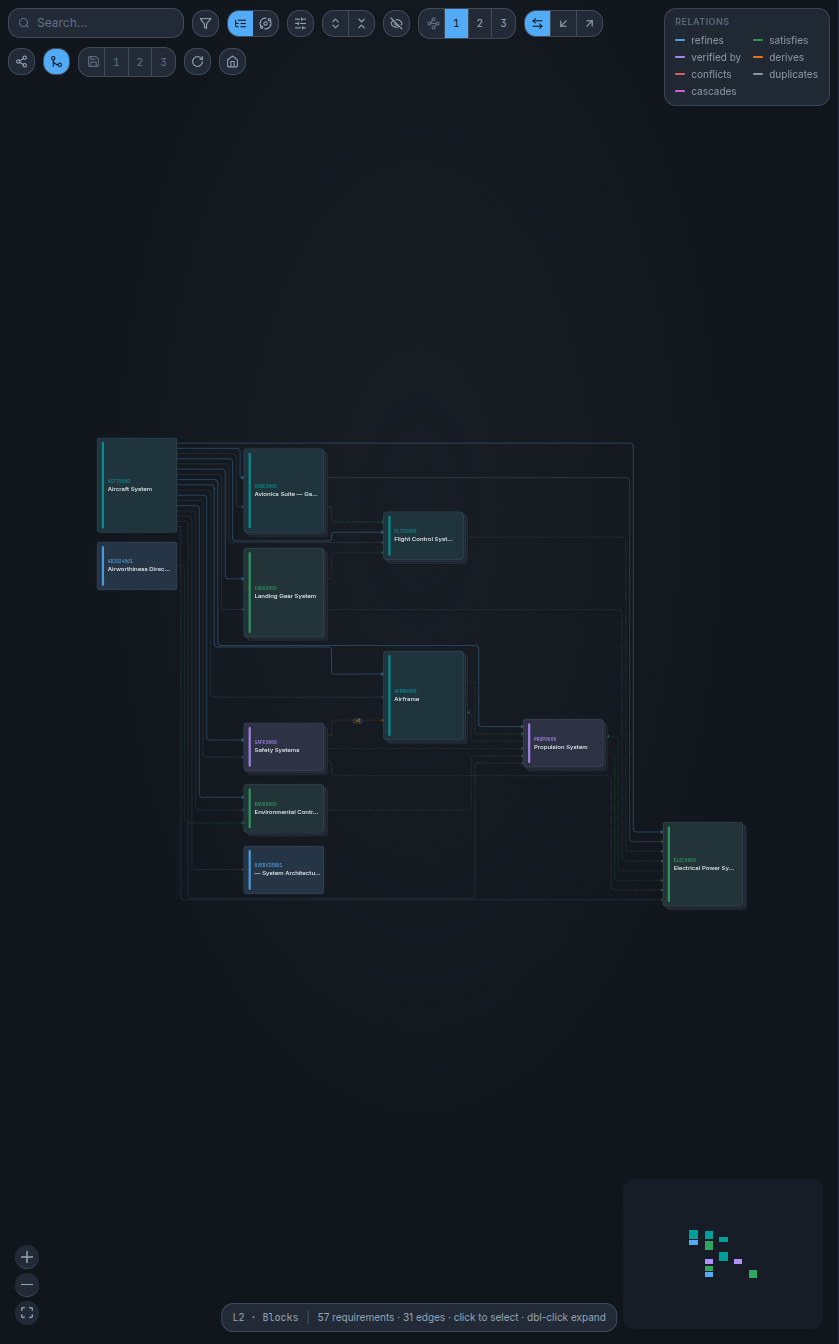
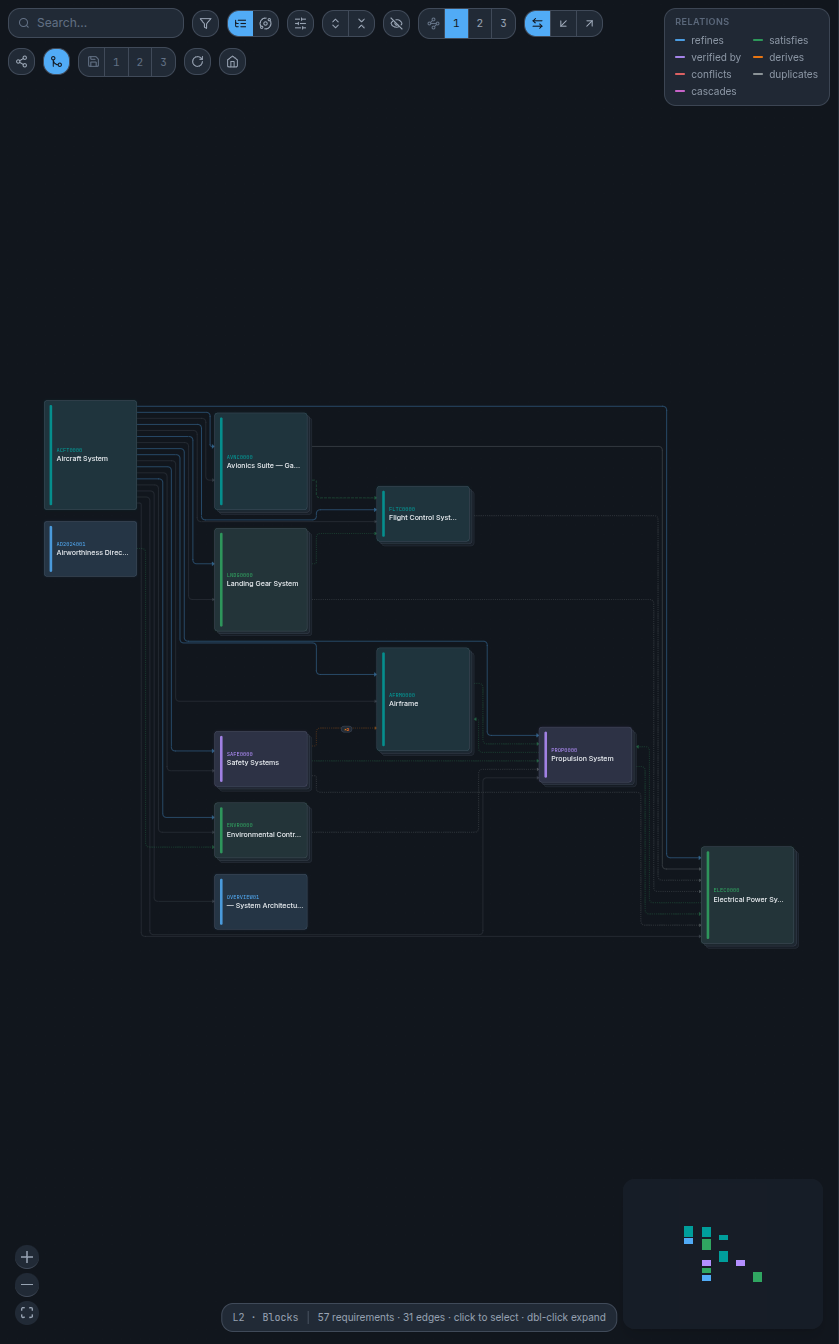
style(canvas): drop the radial glow behind the canvas
The backdrop carried a centre radial gradient for 'atmosphere'. Against the
recessed canvas ground introduced in v0.3.5 it mostly read as an uneven
background rather than depth, and it fought the node surface ramp that is now
doing that job. The canvas is a flat `--graph-canvas` ground.

Screenshots reshot: the gradient also compressed badly, so graph.png drops
205KB -> 86KB.

Claude-Session: https://claude.ai/code/session_01KsRjM7w43KLJCAnZ1HQ5ZZ

diff --git a/frontend/src/components/GraphPane.tsx b/frontend/src/components/GraphPane.tsx
@@ -2074,9 +2074,10 @@ export default function GraphPane({ projectId }: GraphPaneProps) {
     <div
       ref={graphBoxRef}
       className={`w-full h-full bg-graph-canvas relative @container${perfMode ? ' rt-perf' : ''}${hasSelection ? ' rt-dimming' : ''}`}
-      // Subtle centre glow for depth so node blooms read against some atmosphere.
-      // ReactFlow is transparent, so this backdrop shows through behind the nodes.
-      style={{ background: 'radial-gradient(ellipse at 50% 38%, hsl(var(--foreground) / 0.035), transparent 62%), hsl(var(--graph-canvas))' }}
+      // Flat ground. ReactFlow is transparent, so this backdrop shows through
+      // behind the nodes; it used to carry a centre radial gradient for
+      // "atmosphere", which mostly read as an uneven background.
+      style={{ background: 'hsl(var(--graph-canvas))' }}
     >
     {/* The remount key lives on this inner wrapper, NOT the outer div: the
         splash must survive the swap so the old diagram fades straight into
